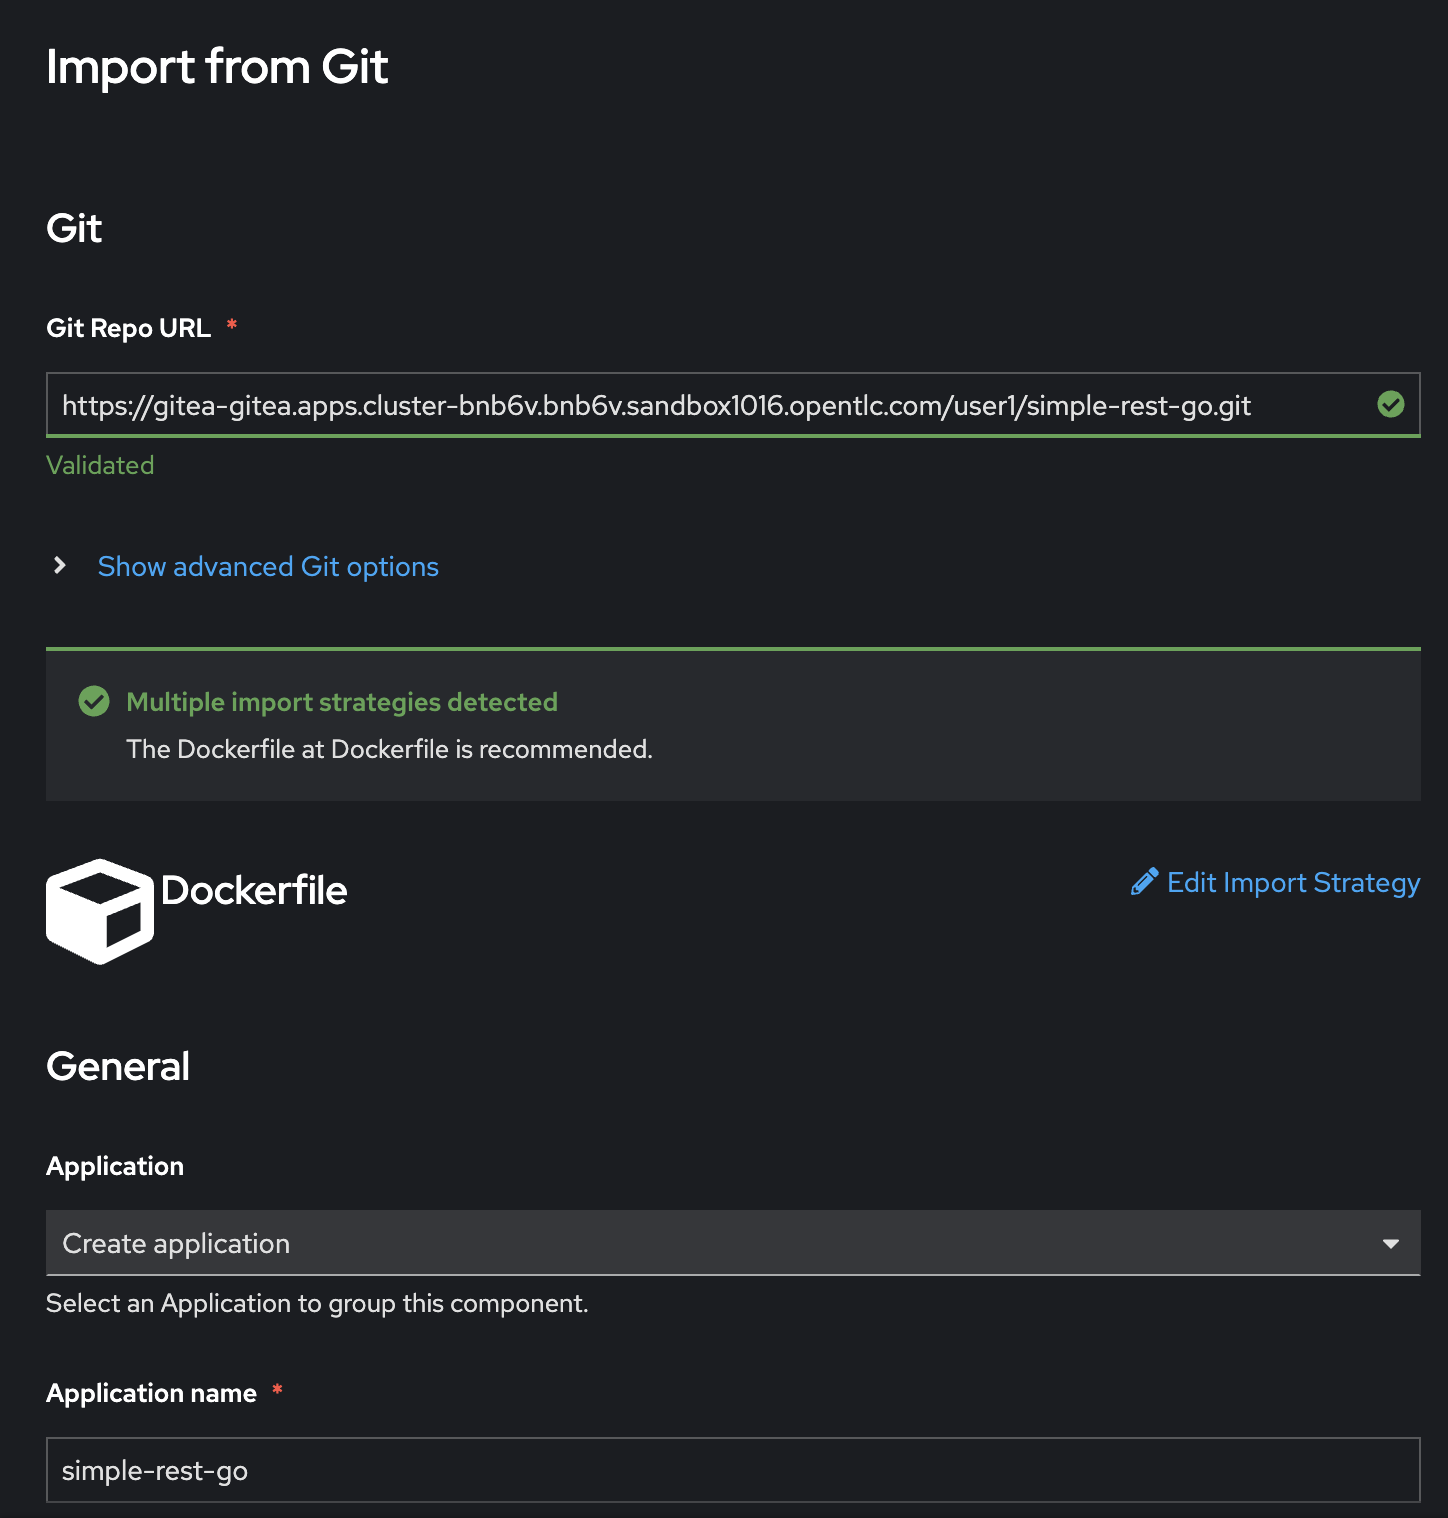
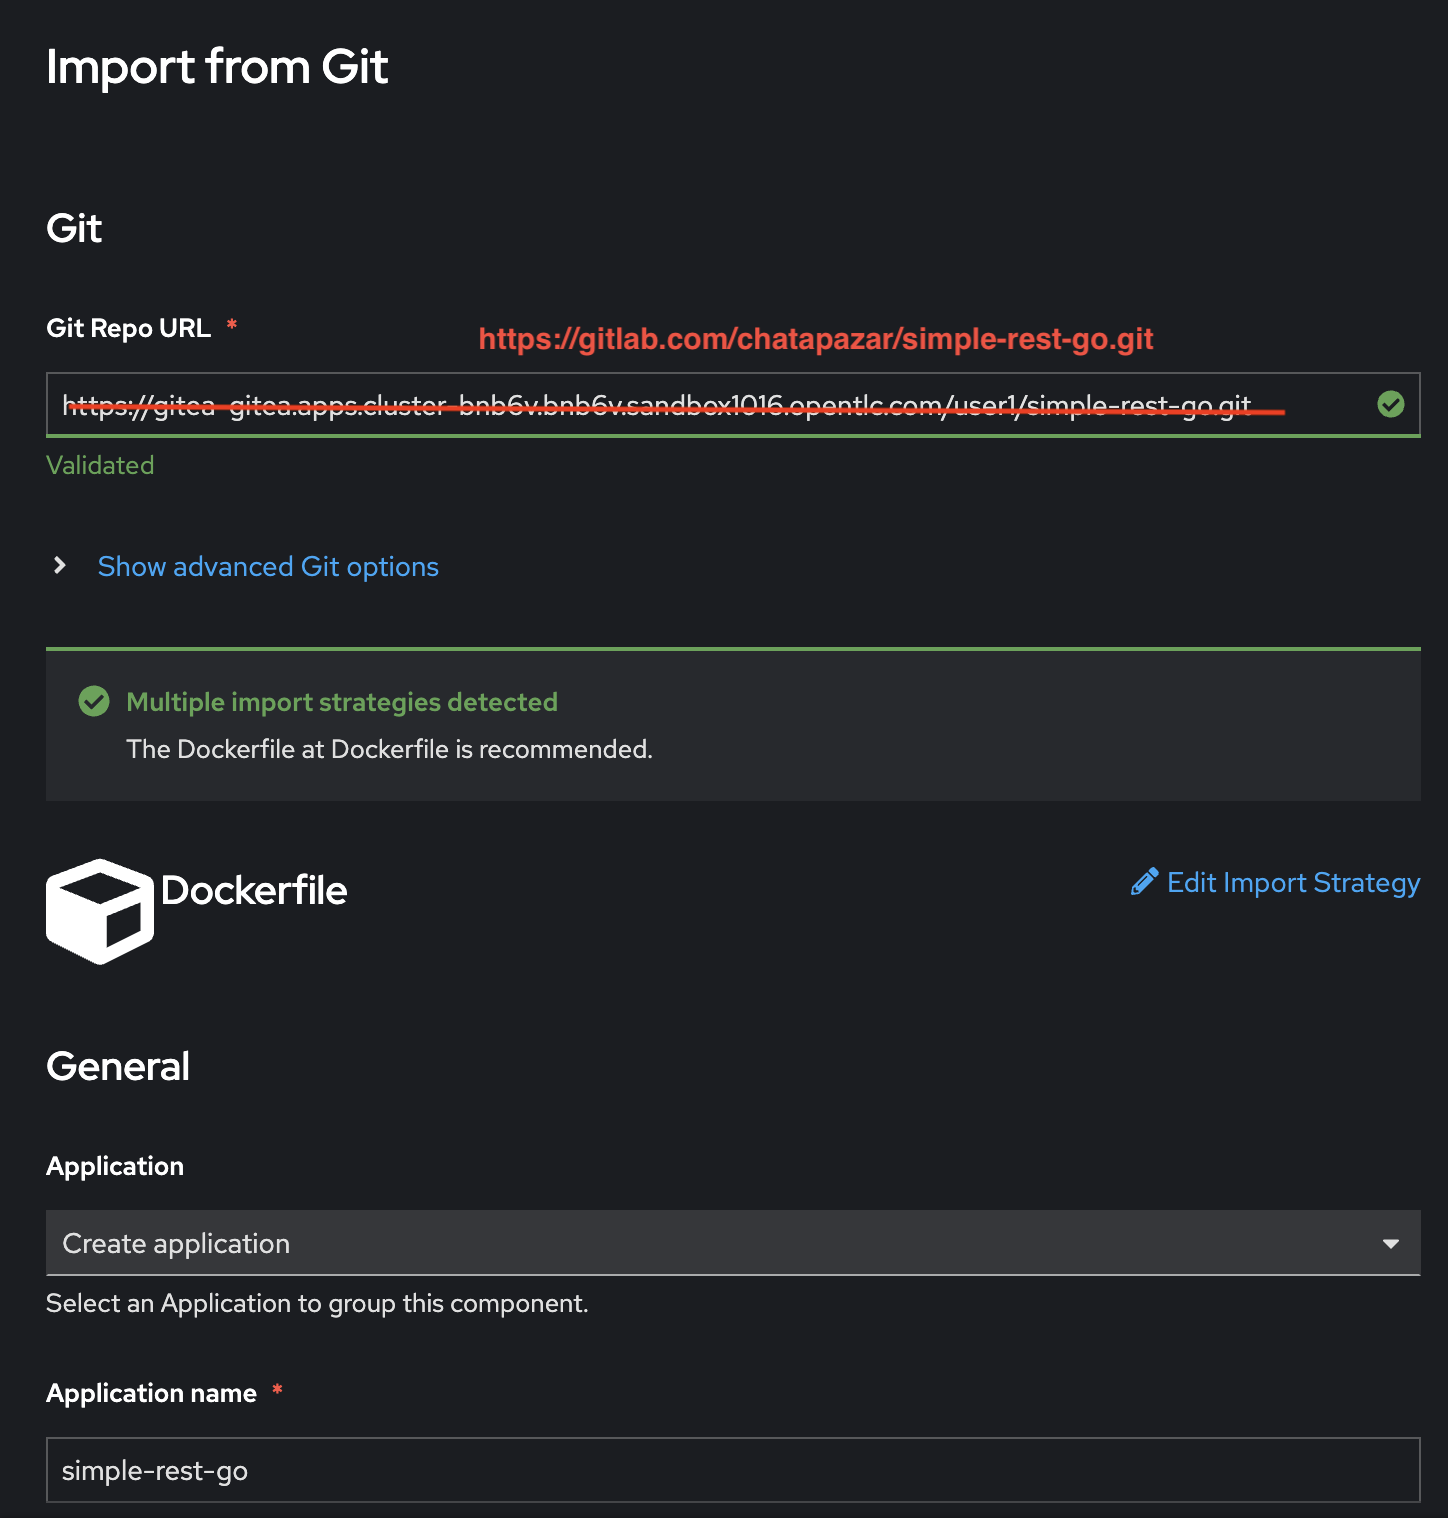
update

Changed region(s): [[0.0622, 0.2167, 0.8702, 0.2787]]

diff --git a/docs/shipwright.md b/docs/shipwright.md
@@ -127,48 +127,13 @@ Get More information
 
 ### Review Container File from Git Repository
   
-- Get Git Url from Command Line, click web terminal link at top right of developer console.
-  
-  ![](../images/shipwright/shp-12.png)
-  
-- for first time. select `userX-shipwright` (change X to your username) project and click start.
-
-  ![](../images/shipwright/shp-13.png)
-
-- wait until terminal ready and show command line prompt!
-  
-  ![](../images/shipwright/shp-14.png)
-
-- run command to get gitea url.
-
-  ```ssh
-  oc get route gitea -n gitea
-  ```
-
-  example result
-
-  ```ssh
-  NAME    HOST/PORT                                                      PATH   SERVICES   PORT    TERMINATION     WILDCARD
-  gitea   gitea-gitea.apps.cluster-bnb6v.bnb6v.sandbox1016.opentlc.com          gitea      <all>   edge/Redirect   None
-  ```
-
-- copy host of gitea to new tab browser 
+- New Browser tab, open `https://gitlab.com/chatapazar/simple-rest-go`
   
   ![](../images/shipwright/shp-15.png)
-
-- login with your username, but password is `openshift`
-
-  ![](../images/shipwright/shp-16.png) 
-
-- click `simple-rest-go` repository
-  
-  ![](../images/shipwright/shp-17.png) 
 
 - select `Dockerfile`, review build step in Dockerfile
 
   ![](../images/shipwright/shp-18.png) 
-  
-  ![](../images/shipwright/shp-19.png) 
 
 - back to `simple-rest-go` repository, get git URL from code button and select copy url
 
@@ -181,7 +146,7 @@ Get More information
   ![](../images/shipwright/shp-21.png) 
 
 - Import from Git page, 
-- Input git URL (from previous copy) in Git Repo URL, such as `https://gitea-gitea.apps.cluster-ldrt9.ldrt9.sandbox1106.opentlc.com/user1/simple-rest-go.git`
+- Input git URL (from previous copy) in Git Repo URL, `https://gitlab.com/chatapazar/simple-rest-go.git`
 - Wizard will detect Dockerfile automatic
 - set Application to `Create Application`
 - set Application name to `simple-rest-go`
@@ -227,10 +192,7 @@ Get More information
 
 ### Review Source from Git Repository
 
-- Back to Git, go to `backend_quarkus` Repository
-
-  ![](../images/shipwright/shp-31.png)   
-  
+- Back to Git, go to `backend_quarkus` Repository, open `https://gitlab.com/chatapazar/backend_quarkus`
 - Review Project Structure of `backend_quarkus`
   
   ![](../images/shipwright/shp-32.png)   
@@ -251,7 +213,7 @@ Get More information
 
 - Back to OpenShift Developer Console, click `+Add` in left menu and select Git Repository - Import from Git
 - In Import from Git, 
-- Input git URL (from previous copy) to Git Repo URL such as `https://gitea-gitea.apps.cluster-ldrt9.ldrt9.sandbox1106.opentlc.com/user1/backend_quarkus.git`
+- Input git URL (from previous copy) to Git Repo URL such as `https://gitlab.com/chatapazar/backend_quarkus.git`
 - Input `/code` in Context dir
   
   ![](../images/shipwright/shp-36.png)   
@@ -298,37 +260,10 @@ Get More information
   
   ![](../images/shipwright/shp-46.png)   
 
-- Try to change source code in Git, back to Git, Back to `BackendResource.java`
-  
-  ![](../images/shipwright/shp-47.png)     
-
-- Click Edit File
-  
-  ![](../images/shipwright/shp-48.png)
-
-- go to line number `201`, change from `Backend version...` to `Backend OpenShift version...`
-  
-  ![](../images/shipwright/shp-49.png)     
-
-- Commit Changes, click Commit Changes
-  
-  ![](../images/shipwright/shp-50.png)  
-
-- Back to Builds, Shipwright Builds, click action menu of `backend-quarkus` Build, select `Start` 
+- Back to Builds, Shipwright Builds, you can rerun Build from this page when you have change in your code
   
   ![](../images/shipwright/shp-51.png)   
 
-- Wait until status change to succeeded
-  
-  ![](../images/shipwright/shp-52.png) 
-    
-  ![](../images/shipwright/shp-53.png)     
-  
-  ![](../images/shipwright/shp-54.png)   
-
-- Test Application Again, message will change to `Backend OpenShift version...`
-
-  ![](../images/shipwright/shp-55.png)      
     
 ## Summary
 

diff --git a/setup.md b/setup.md
@@ -66,9 +66,9 @@
    For example, provisioning 5 lab users:
 
    ```sh
-   export USER_PASSWORD=tze2BjjwGs5ArKBd
-   export ADMIN_PASSWORD=cclEUVM9KioglrzT
-   export totalUsers=3
+   export USER_PASSWORD=XVziuhmw9ivsPVIm
+   export ADMIN_PASSWORD=adm
+   export totalUsers=10
    ./lab-user-provisioner.sh 3
    ```
 
@@ -113,17 +113,29 @@
   oc config rename-context $(oc config current-context) dev-cluster
   argocd cluster add dev-cluster
   oc adm policy add-cluster-role-to-user cluster-admin -z openshift-gitops-argocd-application-controller -n openshift-gitops
+  
+  for i in $( seq 1 $totalUsers )
+    do
+        username=user$i
+        argocd account update-password --account $username --new-password $USER_PASSWORD --current-password $PASSWORD
+    done
   ```
 
-- (Option!) Deploy https://github.com/chatapazar/openshift-workshop.git folder sample for replace https://httpbin.org/status/200
+
+- Deploy https://github.com/chatapazar/openshift-workshop.git folder sample for replace https://httpbin.org/status/200, project test, add view to all user, http://test.test.svc.cluster.local:8080/status/200
+  
+  
 
 - OTEL
 
   install tempo operator
   install clsuter observability
   install build of opentelemetry
-  run tempo-pre.yaml
-  run tempo-sa.yaml
+  run config/otel/tempo-pre.yaml
+  run config/otel/ui-plugin.yaml
+  run config/otel/otel-go-instrument-scc.yaml
+  run tempo-sa.yaml --> per user
+
 
 - DeveloperHub
   
